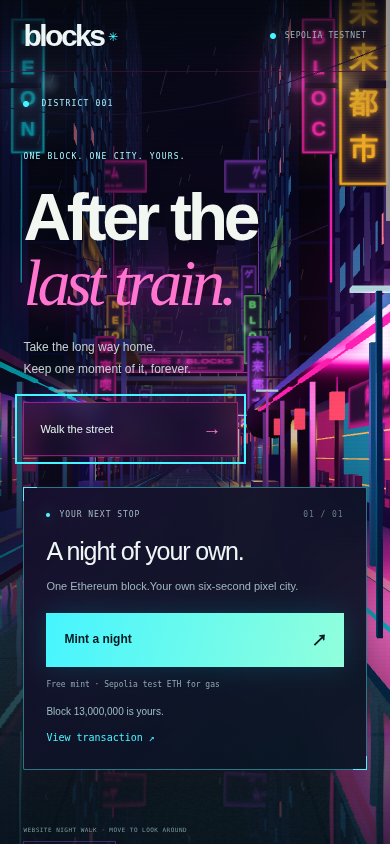
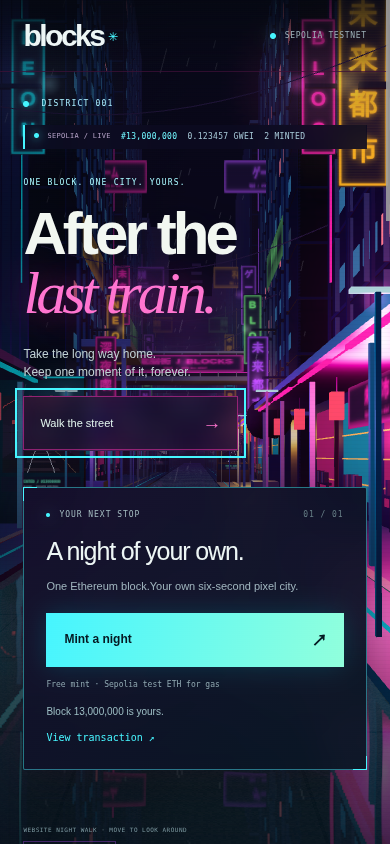
Add live Sepolia signs and NFT galleries to the Blocks street

diff --git a/blocks-page/api/world.js b/blocks-page/api/world.js
@@ -1,0 +1,35 @@
+import deployment from '../dist/config.json' with {type:'json'};
[1 lines of base64/hex data omitted]
+const zero='0x'+'0'.repeat(64);
+export function createHandler(settings,request=fetch){
+ return async(req,res)=>{
+  res.setHeader('Cache-Control','no-store');
+  if(req.method!=='GET'){res.setHeader('Allow','GET');return res.status(405).json({error:'Use GET'});}
+  if(!settings.deployed||!settings.collectionAddress||!process.env.SEPOLIA_RPC_URL)return res.status(503).json({error:'Chain feed unavailable'});
+  const call=async(method,params)=>{
+   const response=await request(process.env.SEPOLIA_RPC_URL,{method:'POST',headers:{'Content-Type':'application/json'},body:JSON.stringify({jsonrpc:'2.0',id:1,method,params}),signal:AbortSignal.timeout(10000)});
+   if(!response.ok)throw Error('RPC unavailable');const body=await response.json();if(body.error||body.result===undefined)throw Error('RPC unavailable');return body.result;
+  };
+  try{
+   const address=settings.collectionAddress;
+   const [block,supply,latest]=await Promise.all([
+    call('eth_getBlockByNumber',['latest',false]),
+    call('eth_call',[{to:address,data:'0x18160ddd'},'latest']),
+    call('eth_call',[{to:address,data:'0x8c0e8349'},'latest'])
+   ]);
+   const number=BigInt(block.number),total=BigInt(supply),last=BigInt(latest);
+   const ids=new Set();if(last>0n)ids.add(String(last));
+   // A short, bounded discovery window; the canonical latest/first tokens work even if logs are restricted.
+   try{
+    const logs=await call('eth_getLogs',[{address,fromBlock:'0x'+(number>2000n?number-2000n:0n).toString(16),toBlock:block.number,topics:[transfer,zero]}]);
+    for(const log of logs.slice().reverse()){
+     if(!log.removed&&log.address?.toLowerCase()===address.toLowerCase()&&log.topics?.[0]===transfer&&log.topics?.[1]===zero&&/^0x[0-9a-f]{64}$/i.test(log.topics?.[3]??''))ids.add(String(BigInt(log.topics[3])));
+     if(ids.size>=8)break;
+    }
+   }catch{/* Some RPCs restrict logs. Never invent a mint. */}
+   if(total>0n&&settings.firstTokenId)ids.add(String(settings.firstTokenId));
+   return res.status(200).setHeader('Cache-Control','public, max-age=12, s-maxage=12').json({chainId:settings.chainId,blockNumber:String(number),timestamp:Number(BigInt(block.timestamp)),baseFeeWei:String(BigInt(block.baseFeePerGas??'0x0')),gasUsed:String(BigInt(block.gasUsed)),gasLimit:String(BigInt(block.gasLimit)),transactions:block.transactions.length,totalSupply:String(total),tokenIds:[...ids].slice(0,8),observedAt:Date.now()});
+  }catch{return res.status(502).json({error:'Chain feed temporarily unavailable'});}
+ };
+}
+export default createHandler(deployment);

diff --git a/blocks-page/dist/style.css b/blocks-page/dist/style.css
@@ -43,3 +43,7 @@ h1 em{color:#ff75d0;text-shadow:0 0 28px #ff20ad55,0 0 80px #bf25ff30}
 .mint-panel{border-color:#46f5ff70;background:linear-gradient(135deg,#160f2cf2,#071522ee);box-shadow:0 20px 80px #0008,0 0 32px #ff20ad14}
 .primary{background:linear-gradient(105deg,#46f5ff,#91ffdc);color:#041922;box-shadow:0 0 25px #00eaff28}.primary:hover:not(:disabled){background:#acffff;box-shadow:0 0 35px #00eaff55}
 .topbar{border-bottom-color:#ff32b52b}.ticker{background:#100b1b;border-color:#ff32b530}.edition-tag{color:#ff75d0}.art-frame{border-color:#bc42ff40}.scene-controls button{border-color:#b74dff55}
+
+.chain-hud{position:absolute;top:154px;right:5%;display:flex;flex-wrap:wrap;gap:7px 14px;max-width:270px;padding:12px 15px;border-left:2px solid #745681;background:#0c0b20d9;backdrop-filter:blur(12px);color:#a7c9d8;font:9px/1.5 monospace;letter-spacing:.04em;pointer-events:none}.chain-hud>div{width:100%;font-size:8px;color:#b6a3c8}.chain-dot{display:inline-block;width:5px;height:5px;background:#a88dba;border-radius:50%;margin-right:8px}.chain-hud[data-status=live]{border-color:#46f5ff}.chain-hud[data-status=live] .chain-dot{background:#46f5ff;box-shadow:0 0 10px #46f5ff}.chain-hud[data-status=offline],.chain-hud[data-status=stale]{border-color:#ffb51b}.chain-hud[data-status=offline] .chain-dot,.chain-hud[data-status=stale] .chain-dot{background:#ffb51b}#chain-head{color:#70f7ff}body.exploring .chain-hud{left:32px;right:auto;top:61px;max-width:none;padding:9px 12px}body.exploring .chain-hud>div{width:auto;margin-right:5px}
+@media(max-width:700px){.chain-hud{top:125px;left:6%;right:6%;max-width:none;gap:5px 10px;font-size:8px;padding:6px 9px}.chain-hud>div{width:auto;font-size:7px}.hero-copy{top:177px}h1{font-size:60px}.hero-copy .eyebrow{margin-bottom:16px}.explore{margin-top:15px}.intro{line-height:1.5}body.exploring .chain-hud{top:105px;left:20px;right:20px;font-size:8px;gap:4px 9px}body.exploring .chain-hud>div{width:100%}}
+@media(max-width:370px){.chain-hud{gap:4px 7px;font-size:7px}.chain-hud>div{font-size:6px}.hero-copy{top:174px}h1{font-size:51px}.hero-copy .eyebrow{margin-bottom:13px}}

diff --git a/blocks-page/dist/index.html b/blocks-page/dist/index.html
@@ -4,6 +4,7 @@
 <main><section class="landing" aria-labelledby="title">
 <div class="city-stage" id="city-stage"><div class="city-fallback" aria-hidden="true"><i></i><i></i><i></i><i></i><i></i><i></i><i></i></div><canvas id="city" aria-hidden="true"></canvas></div>
 <div class="atmosphere" aria-hidden="true"></div><div class="hero-location" aria-hidden="true"><span class="signal"></span> DISTRICT 001 <span>東京の夜 / AFTER THE LAST TRAIN</span></div>
+<aside class="chain-hud" aria-label="Ethereum Sepolia chain state"><div><span class="chain-dot"></span><span id="chain-status">SEPOLIA / CONNECTING</span></div><span id="chain-head">Awaiting chain feed</span><span id="chain-fee">— GWEI</span><span id="chain-supply">— MINTED</span></aside>
 <div class="hero-copy"><p class="eyebrow">ONE BLOCK. ONE CITY. YOURS.</p><h1 id="title">After the<br><em>last train.</em></h1><p class="intro">Take the long way home.<br>Keep one moment of it, forever.</p><button id="explore" class="explore" aria-pressed="false">Walk the street <span>→</span></button></div>
 <div class="mint-panel"><div class="panel-heading"><span class="signal"></span><span>YOUR NEXT STOP</span><span class="panel-number">01 / 01</span></div><h2>A night of your own.</h2><p>One Ethereum block.<br>Your own six-second pixel city.</p><button id="mint" class="primary" disabled>Loading… <span>↗</span></button><p class="mint-note">Free mint · Sepolia test ETH for gas</p><p id="status" class="status" role="status" aria-live="polite">Loading mint availability…</p><a id="transaction" class="text-link" hidden target="_blank" rel="noopener">View transaction ↗</a></div>
 <div class="scene-controls"><span class="walk-hint">WEBSITE NIGHT WALK · MOVE TO LOOK AROUND</span><button id="leave-street" hidden>Back to overview ↗</button><button id="motion" aria-pressed="false">Pause walk Ⅱ</button></div><a href="#collection" class="scroll-cue">EIGHT WORLDS ARE WAITING <span>↓</span></a></section>

diff --git a/blocks-page/README.md b/blocks-page/README.md
@@ -26,6 +26,20 @@ Pause, reduced-motion preferences, background-tab/offscreen suspension and a
 no-WebGL fallback are supported. This browser illustration is separate from the
 original onchain GIF in the collection viewer.
 
+The street includes eight art kiosks. They start with labelled demo scenes, then
+show original minted GIFs from the fixed Sepolia collection. New mints also enter
+the gallery after their metadata loads. WebCodecs-capable browsers animate GIF
+textures; other browsers display the first-frame poster. Pausing or requesting
+reduced motion freezes the artwork as well as the walk.
+
+The read-only `/api/world` feed refreshes every 30 seconds and reports the latest
+Sepolia block, base fee and collection mint count in the HUD and overhead signs.
+Delayed/offline readings are marked. Mint discovery uses the collection's
+`latestTokenId`, the known first mint and a bounded 2,000-block Transfer-log scan;
+this is a recent gallery, not a complete historical index. Metadata renders run
+sequentially, at most two new tokens per refresh, without blocking chain updates.
+The endpoint accepts no RPC or collection override and uses only `SEPOLIA_RPC_URL`.
+
 The tab icon is a locally drawn neon city block with animated windows. Like
 ghoulballs, it swaps pre-rendered PNG frames, respects reduced motion, and keeps
 static ICO/PNG and Apple touch fallbacks. Browser QA exports its first frame to
